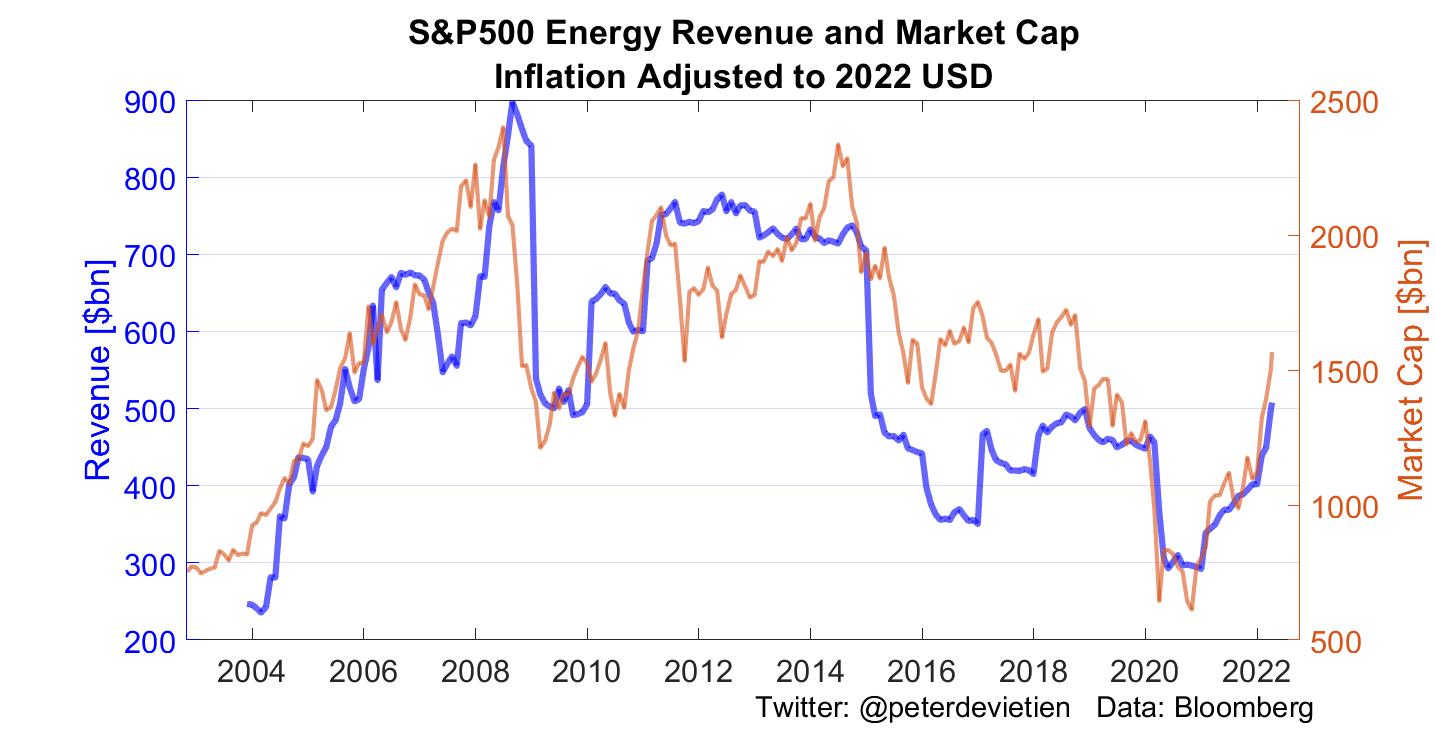
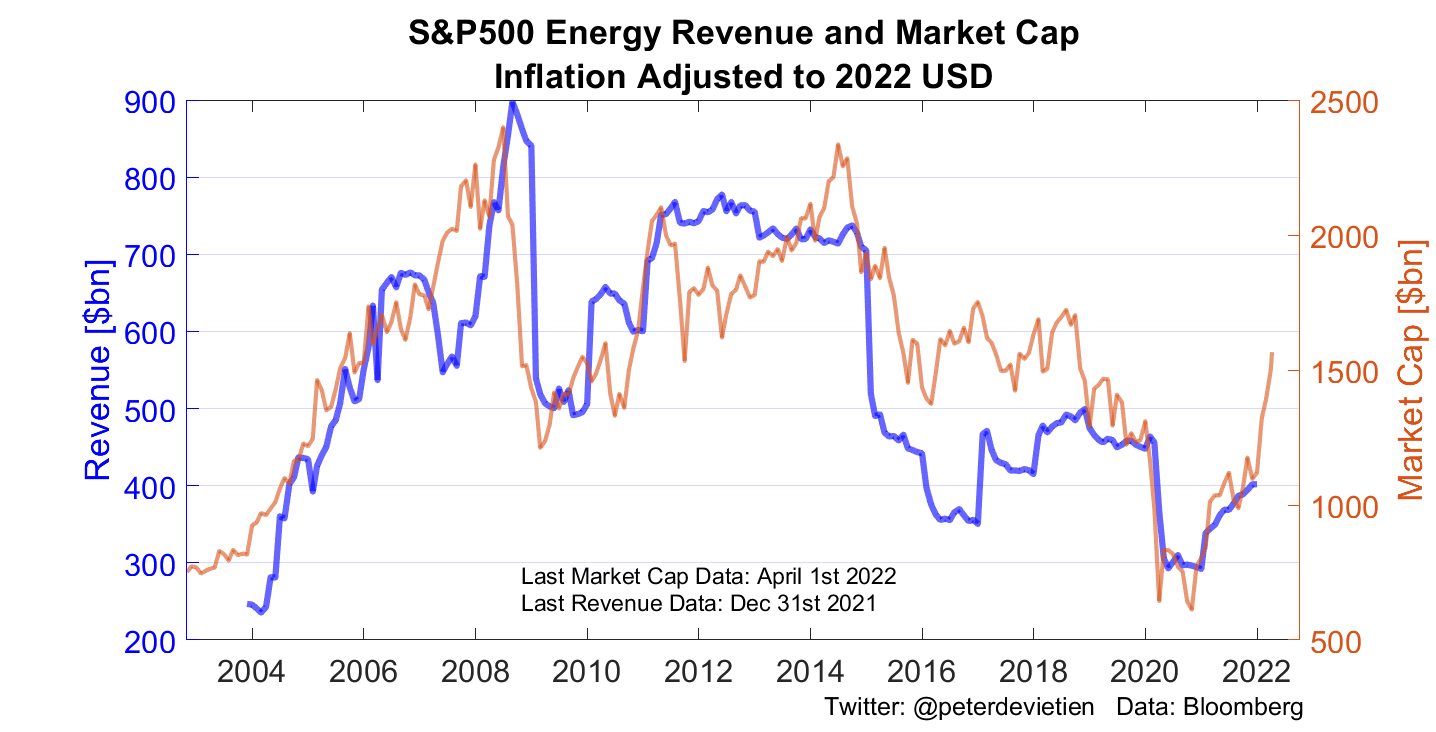
mcrev

Changed region(s): [[0.5209, 0.9317, 0.9192, 0.9918], [0.3677, 0.7814, 0.6128, 0.8415], [0.8579, 0.541, 0.8886, 0.6612]]

diff --git a/bloomberg/plot_sp500_energy_revenue_markcap.m b/bloomberg/plot_sp500_energy_revenue_markcap.m
@@ -5,6 +5,13 @@ close all
 [dates,revenue]=load_sp500_energy_revenue;
 [mdates,markcap]=load_sp500_energy_markcap();
 
+%%
+eind=4;
+dates=dates(1:end-eind);
+revenue=revenue(1:end-eind);
+% mdates=mdates(1:end-eind);
+% markcap=markcap(1:end-eind);
+
 [~,rinfl]=inflation_vs_t(dates);
 [~,minfl]=inflation_vs_t(mdates);
 %%
@@ -38,6 +45,9 @@ title(['S&P500 Energy Revenue and Market Cap',newline,'Inflation Adjusted to 202
 xl=xlim;
 xlim([xl(1) xl(2)+calmonths(6)])
 
-text(0.51,-0.12,'Twitter: @peterdevietien   Data: Bloomberg','fontsize',14,'units','normalized')
+t1=text(0.3,0.12,'Last Market Cap Data: April 1st 2022','fontsize',11','units','normalized');
+t2=text(0.3,0.07,'Last Revenue Data: Dec 31st 2021','fontsize',11','units','normalized');
+
+t3=text(0.572,-0.12,'Twitter: @peterdevietien   Data: Bloomberg','fontsize',12,'units','normalized');
 
 print('post\sp500_energy_revenue_markcap','-dpng')
